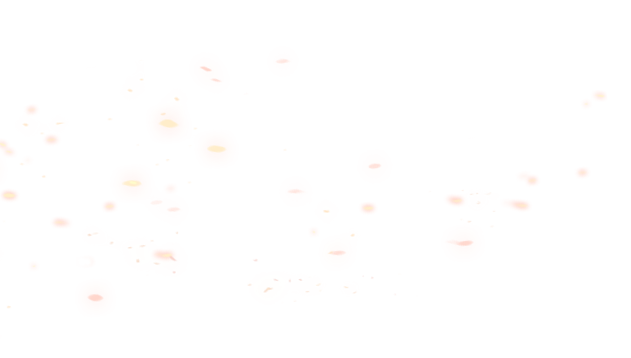
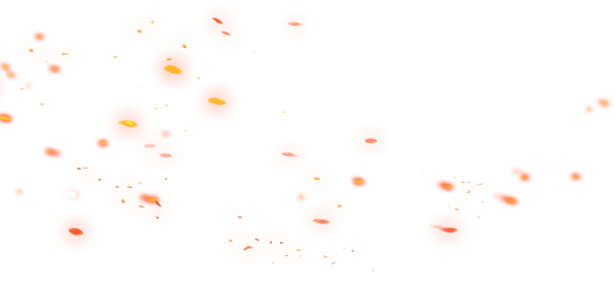
Welcome 4/4 slideshow, fire particles and fix Navbar z-index

diff --git a/src/styles/index.scss b/src/styles/index.scss
@@ -868,6 +868,7 @@ body{
 
 .navbar{
   position: fixed;
+  z-index: 30;
   width: 100%;
   padding-left: 0.5rem;
   padding-right: 0.5rem;
@@ -1031,14 +1032,17 @@ body{
       .item{
         position: relative;
       }
+      .item{
+        transition-property: all;
+        transition-timing-function: cubic-bezier(0.4, 0, 0.2, 1);
+        transition-duration: 150ms;
+      }
+      .item{
+        transition-duration: 150ms;
+      }
       .item {
-        &{
-          transition-property: all;
-          transition-timing-function: cubic-bezier(0.4, 0, 0.2, 1);
-          transition-duration: 150ms;
-        }
-        &{
-          transition-duration: 150ms;
+        .elements {
+          @extend .btn-hover
         }
         .elements{
           display: flex;
@@ -1054,6 +1058,18 @@ body{
         }
         .elements{
           padding-left: 0.5rem;
+        }
+        .elements{
+          --tw-drop-shadow: drop-shadow(0px 0px 0px #00000000);
+          filter: var(--tw-blur) var(--tw-brightness) var(--tw-contrast) var(--tw-grayscale) var(--tw-hue-rotate) var(--tw-invert) var(--tw-saturate) var(--tw-sepia) var(--tw-drop-shadow);
+        }
+        .elements{
+          transition-property: all;
+          transition-timing-function: cubic-bezier(0.4, 0, 0.2, 1);
+          transition-duration: 150ms;
+        }
+        .elements{
+          transition-duration: 200ms;
         }
         .elements {
           span{
@@ -1115,6 +1131,14 @@ body{
             .svg-arrow{
               width: 10px;
             }
+            .svg-arrow{
+              transition-property: all;
+              transition-timing-function: cubic-bezier(0.4, 0, 0.2, 1);
+              transition-duration: 150ms;
+            }
+            .svg-arrow{
+              transition-duration: 200ms;
+            }
           }
         }
         .other-langs{
@@ -1148,8 +1172,11 @@ body{
           }
         }
         &.show {
-          .elements {
-            @extend .btn-hover;
+          & > .elements{
+            --tw-drop-shadow: drop-shadow(0px 0px 11px #D3D5FDa0);
+            filter: var(--tw-blur) var(--tw-brightness) var(--tw-contrast) var(--tw-grayscale) var(--tw-hue-rotate) var(--tw-invert) var(--tw-saturate) var(--tw-sepia) var(--tw-drop-shadow);
+          }
+          & > .elements {
             .arrow {
               .svg-arrow{
                 --tw-scale-y: -1;
@@ -1434,6 +1461,8 @@ body{
 }
 
 .welcome{
+  position: relative;
+  z-index: 10;
   display: grid;
   min-height: 100vh;
   grid-template-columns: repeat(1, minmax(0, 1fr));
@@ -1451,6 +1480,83 @@ body{
 }
 
 .welcome {
+  .fire-particles{
+    position: absolute;
+  }
+  .fire-particles{
+    bottom: 0px;
+  }
+  .fire-particles{
+    left: 0px;
+  }
+  .fire-particles{
+    z-index: -10;
+  }
+  .fire-particles{
+    width: 100%;
+  }
+  .fire-particles{
+    overflow: hidden;
+  }
+  .fire-particles {
+    .fire-particles-container{
+      display: flex;
+    }
+    .fire-particles-container{
+      flex-wrap: nowrap;
+    }
+    .fire-particles-container{
+      justify-content: space-between;
+    }
+    .fire-particles-container {
+      .left {
+      }
+      .right{
+        align-self: flex-end;
+      }
+      .img{
+        height: 112px;
+      }
+      .img{
+        width: 270px;
+      }
+      .img{
+        background-size: cover;
+      }
+      .img{
+        background-position: center;
+      }
+      @media (min-width: 1280px){
+        .img{
+          height: 274px;
+        }
+      }
+      @media (min-width: 1280px){
+        .img{
+          width: 658px;
+        }
+      }
+      .img-fade-1{
+        opacity: 0.5;
+      }
+      .img-fade-2{
+        opacity: 0.25;
+      }
+      .img-reversed{
+        --tw-scale-x: -1;
+        --tw-scale-y: -1;
+        transform: translate(var(--tw-translate-x), var(--tw-translate-y)) rotate(var(--tw-rotate)) skewX(var(--tw-skew-x)) skewY(var(--tw-skew-y)) scaleX(var(--tw-scale-x)) scaleY(var(--tw-scale-y));
+      }
+      .mobile-hide{
+        display: none;
+      }
+      @media (min-width: 1280px){
+        .mobile-hide{
+          display: block;
+        }
+      }
+    }
+  }
   .welcome-container {
     .welcome-content{
       height: 100%;

diff --git a/src/styles/navbar.scss b/src/styles/navbar.scss
@@ -1,6 +1,6 @@
 .navbar {
   @apply fixed w-full text-white 
-  transition-colors duration-200 
+  transition-colors duration-200 z-30
   pt-2 md:pt-3 
   px-2;
   .nav-container {
@@ -35,12 +35,13 @@
       @apply p-1;
 
       .item {
-        @apply relative;
-        & {
-          @apply transition-all duration-150;
-        }
+        @apply relative
+        transition-all duration-150;
+
         .elements {
-          @apply flex items-center pl-2 rounded-md cursor-pointer;
+          @extend .btn-hover;
+          @apply drop-shadow-noglow flex items-center pl-2 rounded-md cursor-pointer transition-all duration-200;
+
           span {
             @apply block font-bold uppercase
             text-sm xl:text-base pr-1.5;
@@ -55,7 +56,7 @@
           .arrow {
             @apply pl-1.5;
             .svg-arrow {
-              @apply w-[10px] h-[10px];
+              @apply w-[10px] h-[10px] transition-all duration-200;
             }
           }
         }
@@ -68,8 +69,8 @@
         }
 
         &.show {
-          .elements {
-            @extend .btn-hover;
+          & > .elements {
+            @apply drop-shadow-glow0;
             .arrow {
               .svg-arrow {
                 @apply -scale-y-100;

diff --git a/src/app/[lang]/Welcome.tsx b/src/app/[lang]/Welcome.tsx
@@ -12,6 +12,32 @@ export default async function Welcome({ welcome }: Props) {
       className="welcome"
       style={{ backgroundImage: `url(/images/welcome/welcome-bg.png)` }}
     >
+      <div className="fire-particles">
+        <div className="fire-particles-container">
+          <div className="left">
+            <div
+              className="img img-fade-2 mobile-hide"
+              style={{
+                backgroundImage: `url(/images/welcome/fire-particles-1.png)`,
+              }}
+            ></div>
+            <div
+              className="img"
+              style={{
+                backgroundImage: `url(/images/welcome/fire-particles-1.png)`,
+              }}
+            ></div>
+          </div>
+          <div className="right">
+            <div
+              className="img img-fade-1 img-reversed mobile-hide"
+              style={{
+                backgroundImage: `url(/images/welcome/fire-particles-1.png)`,
+              }}
+            ></div>
+          </div>
+        </div>
+      </div>
       <div className="welcome-container">
         <div className="welcome-content">
           <h2 className="title">{welcome.title}</h2>

diff --git a/src/styles/welcome.scss b/src/styles/welcome.scss
@@ -1,6 +1,39 @@
 .welcome {
   @apply bg-[34%_center] xl:bg-center bg-cover
+  relative z-10
   grid grid-cols-1  min-h-screen  pt-24 content-center xl:content-end;
+
+  .fire-particles {
+    @apply absolute -z-10
+    w-full overflow-hidden bottom-0 left-0;
+    .fire-particles-container {
+      @apply flex flex-nowrap justify-between;
+      .left {
+      }
+      .right {
+        @apply self-end;
+      }
+
+      .img {
+        @apply h-[112px] w-[270px]
+        xl:h-[274px] xl:w-[658px] 
+        bg-cover bg-center;
+      }
+      .img-fade-1 {
+        @apply opacity-50;
+      }
+      .img-fade-2 {
+        @apply opacity-25;
+      }
+      .img-reversed {
+        @apply -scale-100;
+      }
+      .mobile-hide {
+        @apply hidden xl:block;
+      }
+    }
+  }
+
   .welcome-container {
     .welcome-content {
       @apply text-center w-full h-full

diff --git a/tailwind.config.ts b/tailwind.config.ts
@@ -29,7 +29,9 @@ const config: Config = {
           "conic-gradient(from 180deg at 50% 50%, var(--tw-gradient-stops))",
       },
       dropShadow: {
+        noglow: ["0px 0px 0px #00000000"],
         glow: ["0px 0px 8px #D3D5FD"],
+        glow0: ["0px 0px 11px #D3D5FDa0"],
         glow2: ["0px 0px 8px #D3D5FD", "0px 0px 8px #D3D5FD"],
         "glow-btn-1": ["0px 2px 4px #ffffff"],
         "glow-btn-0-orange": ["0px 0px 8px #FF5C00"],
